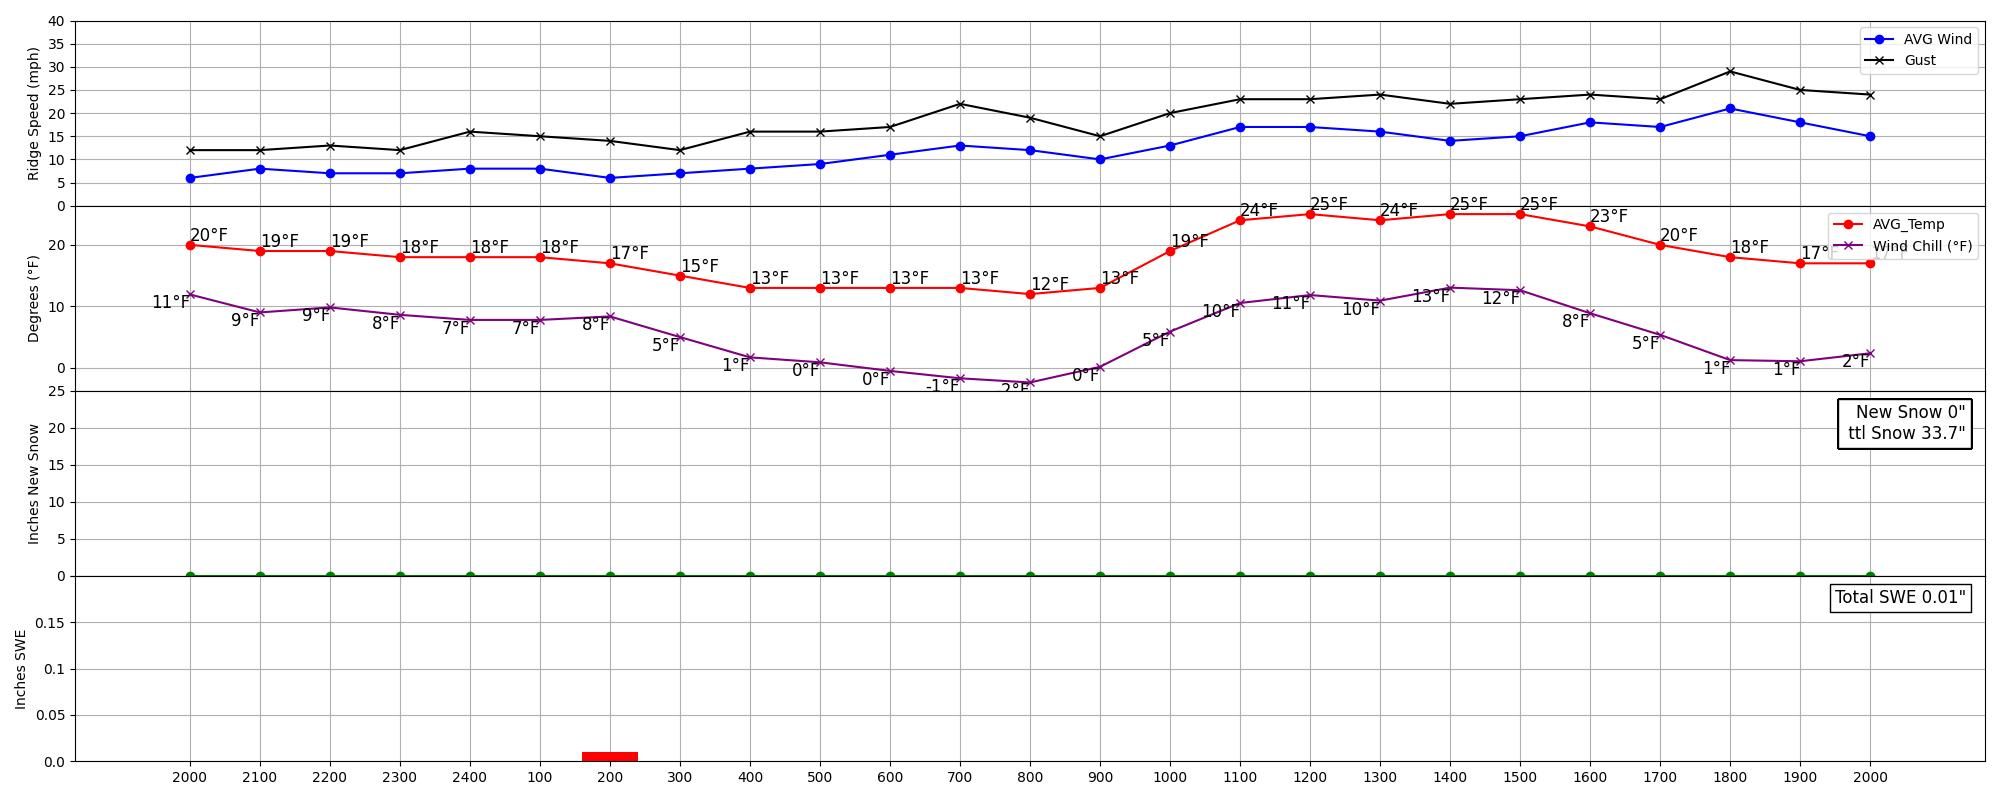
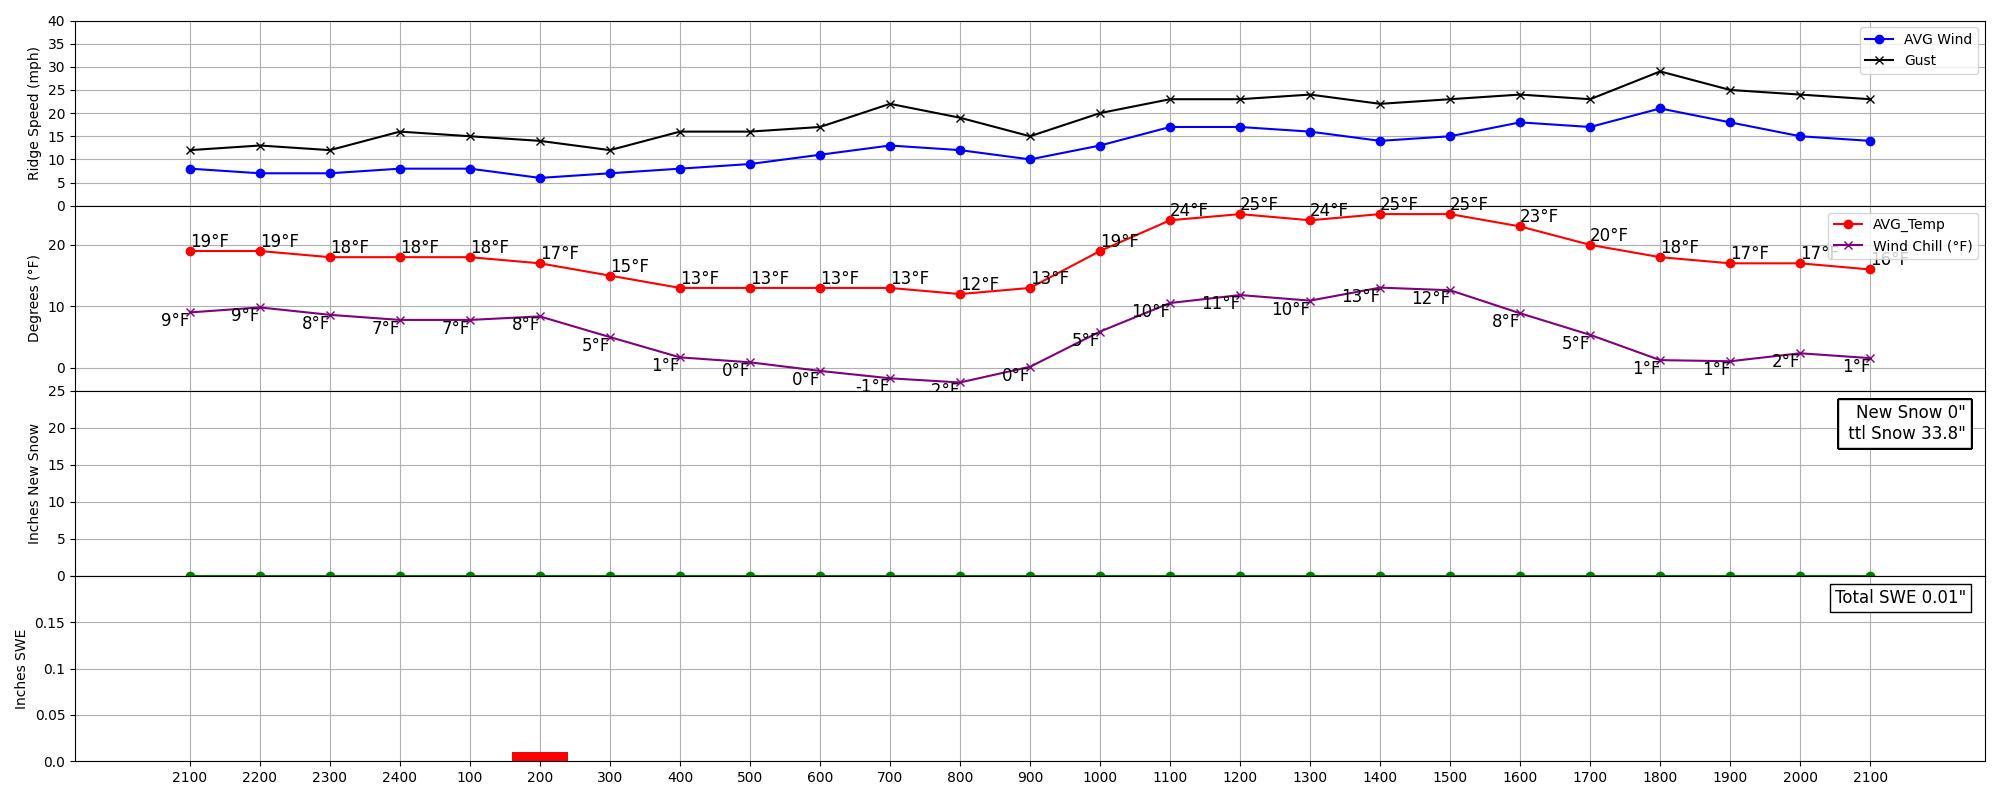
working again.

diff --git a/index.html b/index.html
@@ -71,7 +71,7 @@
 </head>
 <body>
     <img src="7216381.png" class="corner-icon" alt="Icon">
-    <p id="myText">YCSP Timberline Weather Report - Last Update 8:44PM Friday January 26th 2024</p>
+    <p id="myText">YCSP Timberline Weather Report - Last Update 9:25PM Friday January 26th 2024</p>
     <hr>
     <div style="display: flex;">
         <!-- Left Column: Image -->
@@ -178,6 +178,20 @@
         </thead>
         <tbody>
             <tr>
+<td>21:00 Fri</td>
+<td>16</td>
+<td>65</td>
+<td>0.0</td>
+<td>0</td>
+<td>33.8</td>
+<td>14</td>
+<td>SW</td>
+<td>23</td>
+<td>8</td>
+<td>SW</td>
+<td>18</td>
+</tr>
+<tr>
 <td>20:00 Fri</td>
 <td>17</td>
 <td>62</td>
@@ -512,20 +526,6 @@
 <td>6</td>
 <td>NW</td>
 <td>13</td>
-</tr>
-<tr>
-<td>20:00 Thu</td>
-<td>20</td>
-<td>96</td>
-<td>0.0</td>
-<td>0</td>
-<td>33.8</td>
-<td>6</td>
-<td>NW</td>
-<td>12</td>
-<td>7</td>
-<td>NW</td>
-<td>14</td>
 </tr>
 
         </tbody>

diff --git a/modified_HTML_file.html b/modified_HTML_file.html
@@ -71,7 +71,7 @@
 </head>
 <body>
     <img src="7216381.png" class="corner-icon" alt="Icon">
-    <p id="myText">YCSP Timberline Weather Report - Last Update 8:44PM Friday January 26th 2024</p>
+    <p id="myText">YCSP Timberline Weather Report - Last Update 9:25PM Friday January 26th 2024</p>
     <hr>
     <div style="display: flex;">
         <!-- Left Column: Image -->
@@ -178,6 +178,20 @@
         </thead>
         <tbody>
             <tr>
+<td>21:00 Fri</td>
+<td>16</td>
+<td>65</td>
+<td>0.0</td>
+<td>0</td>
+<td>33.8</td>
+<td>14</td>
+<td>SW</td>
+<td>23</td>
+<td>8</td>
+<td>SW</td>
+<td>18</td>
+</tr>
+<tr>
 <td>20:00 Fri</td>
 <td>17</td>
 <td>62</td>
@@ -512,20 +526,6 @@
 <td>6</td>
 <td>NW</td>
 <td>13</td>
-</tr>
-<tr>
-<td>20:00 Thu</td>
-<td>20</td>
-<td>96</td>
-<td>0.0</td>
-<td>0</td>
-<td>33.8</td>
-<td>6</td>
-<td>NW</td>
-<td>12</td>
-<td>7</td>
-<td>NW</td>
-<td>14</td>
 </tr>
 
         </tbody>

diff --git a/hoster.py b/hoster.py
@@ -19,17 +19,10 @@ def run_server(port):
     httpd = HTTPServer(('', port), SimpleHTTPRequestHandler)
     httpd.serve_forever()
 
-def start_server(port, duration):
-    # Start the server in a separate thread
+def start_server(port):
     server_thread = threading.Thread(target=run_server, args=(port,))
+    server_thread.daemon = True
     server_thread.start()
-
-    # Wait for the specified duration
-    time.sleep(duration)
-
-    # Stop the server
-    print("Stopping server...")
-    os._exit(0)
 
 def run_assembly_main():
     python_executable = sys.executable
@@ -46,11 +39,13 @@ while True:
     # Run assemblymain.py to refresh the HTML file
     run_assembly_main()
 
-    # Copy the refreshed HTML file and start the server
+    # Copy the refreshed HTML file
     copy_file(source_file, destination_file)
-    start_server(port, duration)
 
-    # Wait for the server to stop
+    # Start the server
+    start_server(port)
+
+    # Wait for the specified duration
     time.sleep(duration)
 
     print("Restarting server...")
